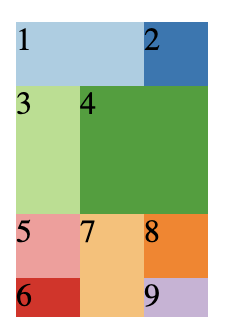
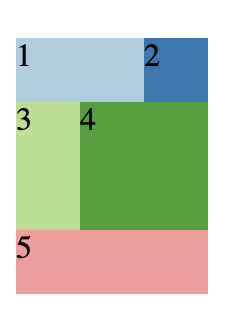
minor fixes p1-p4

diff --git a/README.md b/README.md
@@ -7,7 +7,7 @@ For guidance on setting up and submitting this assignment, refer to the Marcy la
 What are the main differences between Flexbox and Grid layouts? Describe scenarios where each layout system would be more suitable.
 
 ### Response 1
-Generally, both **flexbox** and **grid** are useful in simplifying the process of creating responsive web layouts. Without the two, web developers will have to manually specify specific media-query breakpoints to account for resizing browser windows (or different device resolutions/sizes).
+Generally, both **flexbox** and **grid** are useful in simplifying the process of creating responsive web layouts. Without the two, web developers will have to manually specify media-query breakpoints to account for resizing browser windows (or different device resolutions/sizes).
 
 While you could achieve the same functionality/layout by using either **flexbox** or **grid**, a general rule of thumb is that if you don't have a specific layout in mind, styling using **flexboxes** is the way to go (for both simplicity and time to implement). **Grid** layouts are very powerful for when you want a responsive design but still retain some control in visual arrangement.
 
@@ -142,69 +142,79 @@ Describe the difference between `grid-template-areas` and `grid-template-columns
 `grid-template-columns` and `grid-template-rows` are the two primary CSS properties that you start with when defining a grid structure. The former allows you to specify the width of individual columns, separated by a space.
 
 ```css
-/* setting up a grid with two columns:
-   the first column with a width of 50px
-   the second column with a width of 1rem
-*/
+/* 
+ * setting up a grid with two columns:
+ * the first column with a width of 50px
+ * the second column with a width of 1rem
+ */
 grid-template-columns: 50px 1rem;
 ```
-![demo-1](/public/demo-1.png)
+
+<div align="center">
+  <img src="public/demo-1.png" alt="demo-1" width="40%"/>
+</div>
 
 CSS also allows a neat shortcut for when you want to have a lot of columns that are of the same width.
 
 ```css
-/* sets up a grid of 5 columns:
-   1fr means that they all have the same width proportionate to each other
-   and would occupy the full space of their container!
-*/
+/* 
+ * sets up a grid of 5 columns:
+ * 1fr means that they all have the same width proportionate to each other
+ * and would occupy the full space of their container!
+ */
 grid-template-columns: repeat(5, 1fr);
 ```
-![demo-2](/public/demo-2.png)
+
+<div align="center">
+  <img src="public/demo-2.png" alt="demo-2" width="80%"/>
+</div>
 
 `grid-template-rows` serve the same purpose but for horizontal rows instead. Using both in conjuction with each other allows for a strict definition of a grid-pattern.
 
 ```css
-/* sets up a 4x3 grid (4 rows, 3 columns)
-   all of height and width of 2rem.
-*/
+/* 
+ * sets up a 4x3 grid (4 rows, 3 columns)
+ * all of height and width of 2rem.
+ */
 grid-template-rows: repeat(4, 2rem);
 grid-template-columns: repeat(3, 2rem);
 ```
-![demo-3.png](/public/demo-3.png)
 
-To add a layer of customization, grid then allows the use of `grid-template-columns` in order to create areas of varying sizes in a grid structure. Using the same template from above, here is an example of how you could define areas in CSS grid:
+<div align="center">
+  <img src="public/demo-3.png" alt="demo-3" width="40%"/>
+</div>
+
+To add a layer of customization, CSS grid then allows the use of `grid-template-areas` in order to create areas of varying sizes in a grid structure. Using the same template from above, here is an example of how you could define areas in CSS grid:
 
 ```css
-/* sets up a 4x3 grid (4 rows, 3 columns)
-   all of height and width of 2rem.
-*/
+/* 
+ * sets up a 4x3 grid (4 rows, 3 columns)
+ * all of height and width of 2rem.
+ */
 grid-template-rows: repeat(4, 2rem);
 grid-template-columns: repeat(3, 2rem);
-/* splits up the 4x3 grid into 10 areas! */
+/* splits up the 4x3 grid into 5 (arbitrarily) named areas! */
 grid-template-areas:
   "one one two"
   "three four four"
   "three four four"
-  "six eight nine"
-  "seven eight ten"
+  "five five five"
 ;
 ```
-But that won't work right away. When using `grid-template-areas` you would also have to define an additional property for the children elements in order to match your defined areas above into them!
+But that won't work right away. When using `grid-template-areas` you would also have to define an additional property for the children elements in order to match your defined areas above into them! The possible values of `grid-area` should match the named areas in the `grid-template-areas` property of the parent.
 ```css
-/* assuming that you have divs whose id is 'item<number>' */
+/* assuming that you have children divs whose ids are 'item<number>' */
 #item1 { grid-area: one; background-color: #a6cee3 }
 #item2 { grid-area: two; background-color: #1f78b4 }
 #item3 { grid-area: three; background-color: #b2df8a }
 #item4 { grid-area: four; background-color: #33a02c }
 #item5 { grid-area: five; background-color: #fb9a99 }
-#item6 { grid-area: six; background-color: #e31a1c }
-#item7 { grid-area: seven; background-color: #fdbf6f }
-#item8 { grid-area: eight; background-color: #ff7f00 }
-#item9 { grid-area: nine; background-color: #cab2d6 }
-#item10 { grid-area: ten; background-color: #6a3d9a }
 ```
 Then you get this custom grid with varying element sizes:
-![demo-4.png](/public/demo-4.png)
+
+<div align="center">
+  <img src="public/demo-4.png" alt="demo-4" width="40%"/>
+</div>
 
 
 ## Prompt 4
@@ -212,7 +222,7 @@ Then you get this custom grid with varying element sizes:
 Explain the `min-width` and `max-width` keywords in media queries. How do they help create responsive breakpoints for different screen sizes?
 
 ### Response 4
-`min-width` and `max-width` both make it possible for CSS to detect and redefine itself depending on the viewport's size. Both of these properties act as thresholds which will detect and apply the changes defined inside of them whenever that condition is crossed. A `min-width` media query will apply the changes whenever the viewport is equal or more than the specified value, while `max-width` applies changes when the viewport is equal or less in size.
+`min-width` and `max-width` both make it possible for CSS to detect and redefine itself depending on the viewport's size. Both of these properties act as thresholds which will monitor and apply the changes defined inside of them whenever that condition is crossed. A `min-width` media query will apply the changes whenever the viewport is equal or more than the specified value, while `max-width` applies changes when the viewport is equal or less in size.
 
 ## Prompt 5
 
